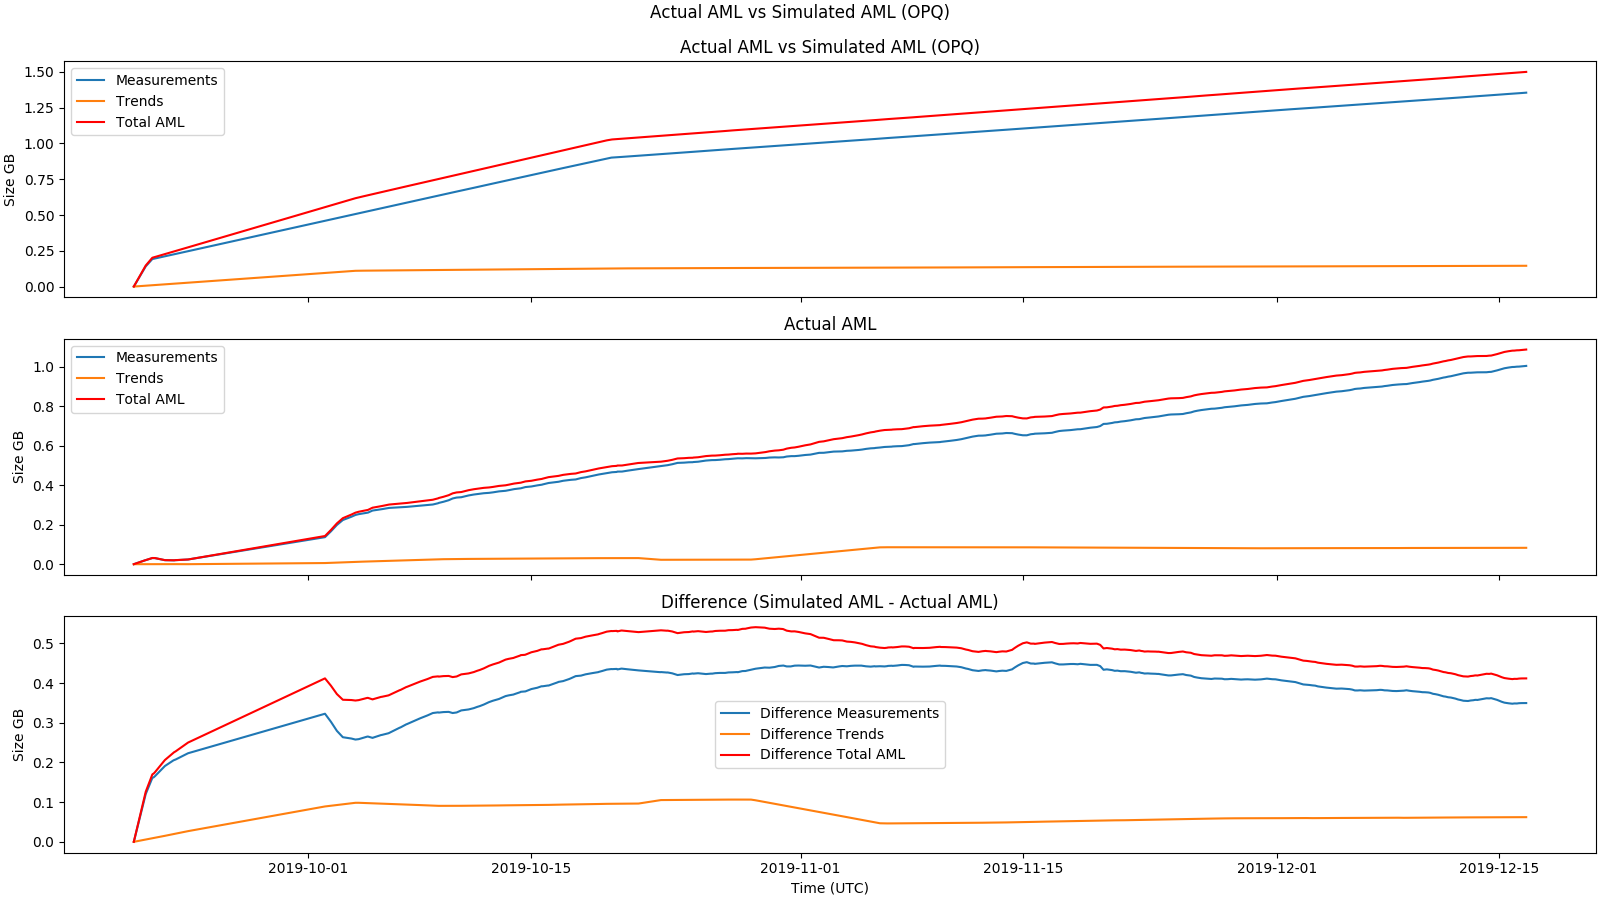
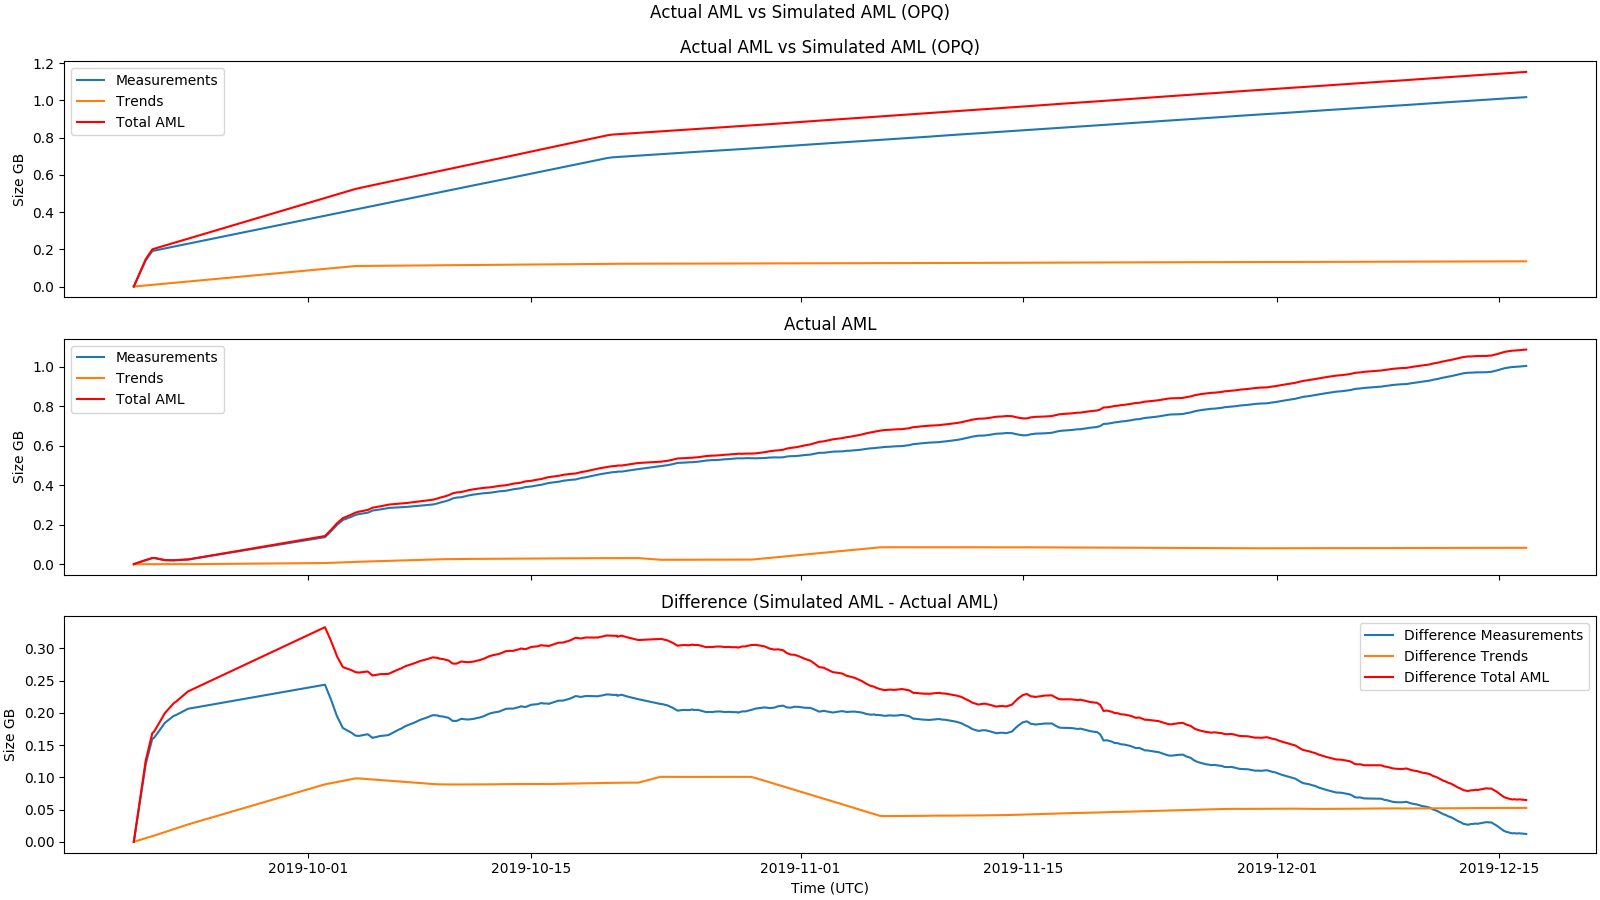
Update plots for sim.

diff --git a/plotting/opq/actual_data.py b/plotting/opq/actual_data.py
@@ -1466,73 +1466,73 @@ if __name__ == "__main__":
     print("Making plots...")
 
     # Laha Plots
-    # plot_iml(laha_stat_dts,
-    #          laha_active_devices,
-    #          laha_iml_total_mb,
-    #          out_dir)
-    #
-    # plot_aml(laha_stat_dts,
-    #          laha_measurements_gb,
-    #          laha_trends_gb,
-    #          laha_aml_total_gb,
-    #          laha_measurements_cnt,
-    #          laha_trends_cnt,
-    #          laha_aml_total_cnt,
-    #          laha_measurements_gc,
-    #          laha_trends_gc,
-    #          laha_aml_total_gc,
-    #          laha_active_devices,
-    #          out_dir)
-    #
-    # plot_dl(laha_stat_dts,
-    #         laha_events_gb,
-    #         laha_events_cnt,
-    #         laha_events_gc,
-    #         laha_active_devices,
-    #         out_dir)
-    #
-    # plot_il(laha_stat_dts,
-    #         laha_incidents_gb,
-    #         laha_incidents_cnt,
-    #         laha_incidents_gc,
-    #         laha_active_devices,
-    #         out_dir)
-    #
-    # plot_laha(laha_stat_dts,
-    #           laha_iml_total_gb,
-    #           laha_aml_total_gb,
-    #           laha_events_gb,
-    #           laha_incidents_gb,
-    #           laha_total_gb,
-    #           out_dir)
-    #
-    # plot_iml_vs_no_tll(aligned_laha_est_dts,
-    #                    aligned_est_dts,
-    #                    aligned_laha_est_iml_total_mb,
-    #                    aligned_est_iml_total_mb,
-    #                    out_dir)
-    #
-    # plot_aml_vs_no_tll(aligned_laha_est_dts,
-    #                    aligned_est_dts,
-    #                    aligned_laha_est_measurements_gb_zero_offset,
-    #                    aligned_laha_est_trends_gb_zero_offset,
-    #                    aligned_laha_est_aml_total_gb_zero_offset,
-    #                    aligned_est_measurements_gb ,
-    #                    aligned_est_trends_gb,
-    #                    aligned_est_aml_total_gb,
-    #                    out_dir)
-    #
-    # plot_dl_vs_no_tll(aligned_est_dts,
-    #                   aligned_est_dts,
-    #                   aligned_laha_est_events_gb_offset_zero,
-    #                   aligned_est_events_total_gb,
-    #                   out_dir)
-    #
-    # plot_il_vs_no_tll(aligned_laha_est_dts,
-    #                   aligned_est_dts,
-    #                   aligned_laha_est_incidents_gb_offset_zero,
-    #                   aligned_est_incidents_total_gb,
-    #                   out_dir)
+    plot_iml(laha_stat_dts,
+             laha_active_devices,
+             laha_iml_total_mb,
+             out_dir)
+
+    plot_aml(laha_stat_dts,
+             laha_measurements_gb,
+             laha_trends_gb,
+             laha_aml_total_gb,
+             laha_measurements_cnt,
+             laha_trends_cnt,
+             laha_aml_total_cnt,
+             laha_measurements_gc,
+             laha_trends_gc,
+             laha_aml_total_gc,
+             laha_active_devices,
+             out_dir)
+
+    plot_dl(laha_stat_dts,
+            laha_events_gb,
+            laha_events_cnt,
+            laha_events_gc,
+            laha_active_devices,
+            out_dir)
+
+    plot_il(laha_stat_dts,
+            laha_incidents_gb,
+            laha_incidents_cnt,
+            laha_incidents_gc,
+            laha_active_devices,
+            out_dir)
+
+    plot_laha(laha_stat_dts,
+              laha_iml_total_gb,
+              laha_aml_total_gb,
+              laha_events_gb,
+              laha_incidents_gb,
+              laha_total_gb,
+              out_dir)
+
+    plot_iml_vs_no_tll(aligned_laha_est_dts,
+                       aligned_est_dts,
+                       aligned_laha_est_iml_total_mb,
+                       aligned_est_iml_total_mb,
+                       out_dir)
+
+    plot_aml_vs_no_tll(aligned_laha_est_dts,
+                       aligned_est_dts,
+                       aligned_laha_est_measurements_gb_zero_offset,
+                       aligned_laha_est_trends_gb_zero_offset,
+                       aligned_laha_est_aml_total_gb_zero_offset,
+                       aligned_est_measurements_gb ,
+                       aligned_est_trends_gb,
+                       aligned_est_aml_total_gb,
+                       out_dir)
+
+    plot_dl_vs_no_tll(aligned_est_dts,
+                      aligned_est_dts,
+                      aligned_laha_est_events_gb_offset_zero,
+                      aligned_est_events_total_gb,
+                      out_dir)
+
+    plot_il_vs_no_tll(aligned_laha_est_dts,
+                      aligned_est_dts,
+                      aligned_laha_est_incidents_gb_offset_zero,
+                      aligned_est_incidents_total_gb,
+                      out_dir)
 
     plot_laha_vs_no_tll(aligned_laha_est_dts,
                         aligned_est_dts,
@@ -1547,39 +1547,39 @@ if __name__ == "__main__":
                                out_dir)
 
     # Simulation plots
-    # plot_iml_vs_sim(aligned_laha_stats_dts,
-    #                 aligned_sim_data_dts,
-    #                 aligned_laha_iml_total_mb,
-    #                 aligned_sim_iml_total_mb,
-    #                 out_dir)
-    #
-    # plot_aml_vs_sim(aligned_laha_stats_dts,
-    #                 aligned_sim_data_dts,
-    #                 aligned_laha_measurements_gb_zero_offset,
-    #                 aligned_laha_trends_gb_zero_offset,
-    #                 aligned_laha_aml_total_gb_zero_offset,
-    #                 aligned_sim_total_measurements_gb,
-    #                 aligned_sim_total_trends_gb,
-    #                 aligned_sim_aml_total_gb,
-    #                 out_dir)
-    #
-    # plot_dl_vs_sim(aligned_laha_stats_dts,
-    #                aligned_sim_data_dts,
-    #                aligned_laha_events_gb_offset_zero,
-    #                aligned_sim_total_events_gb,
-    #                out_dir)
-    #
-    # plot_il_vs_sim(aligned_laha_stats_dts,
-    #                aligned_sim_data_dts,
-    #                aligned_laha_incidents_gb_offset_zero,
-    #                aligned_sim_total_incidents_gb,
-    #                out_dir)
-    #
-    # plot_laha_vs_sim(aligned_laha_stats_dts,
-    #                  aligned_sim_data_dts,
-    #                  aligned_laha_total_gb,
-    #                  aligned_sim_total_gb,
-    #                  out_dir)
+    plot_iml_vs_sim(aligned_laha_stats_dts,
+                    aligned_sim_data_dts,
+                    aligned_laha_iml_total_mb,
+                    aligned_sim_iml_total_mb,
+                    out_dir)
+
+    plot_aml_vs_sim(aligned_laha_stats_dts,
+                    aligned_sim_data_dts,
+                    aligned_laha_measurements_gb_zero_offset,
+                    aligned_laha_trends_gb_zero_offset,
+                    aligned_laha_aml_total_gb_zero_offset,
+                    aligned_sim_total_measurements_gb,
+                    aligned_sim_total_trends_gb,
+                    aligned_sim_aml_total_gb,
+                    out_dir)
+
+    plot_dl_vs_sim(aligned_laha_stats_dts,
+                   aligned_sim_data_dts,
+                   aligned_laha_events_gb_offset_zero,
+                   aligned_sim_total_events_gb,
+                   out_dir)
+
+    plot_il_vs_sim(aligned_laha_stats_dts,
+                   aligned_sim_data_dts,
+                   aligned_laha_incidents_gb_offset_zero,
+                   aligned_sim_total_incidents_gb,
+                   out_dir)
+
+    plot_laha_vs_sim(aligned_laha_stats_dts,
+                     aligned_sim_data_dts,
+                     aligned_laha_total_gb,
+                     aligned_sim_total_gb,
+                     out_dir)
 
     # System resource plots
-    # plot_system_resources(laha_stats, out_dir)
+    plot_system_resources(laha_stats, out_dir)
